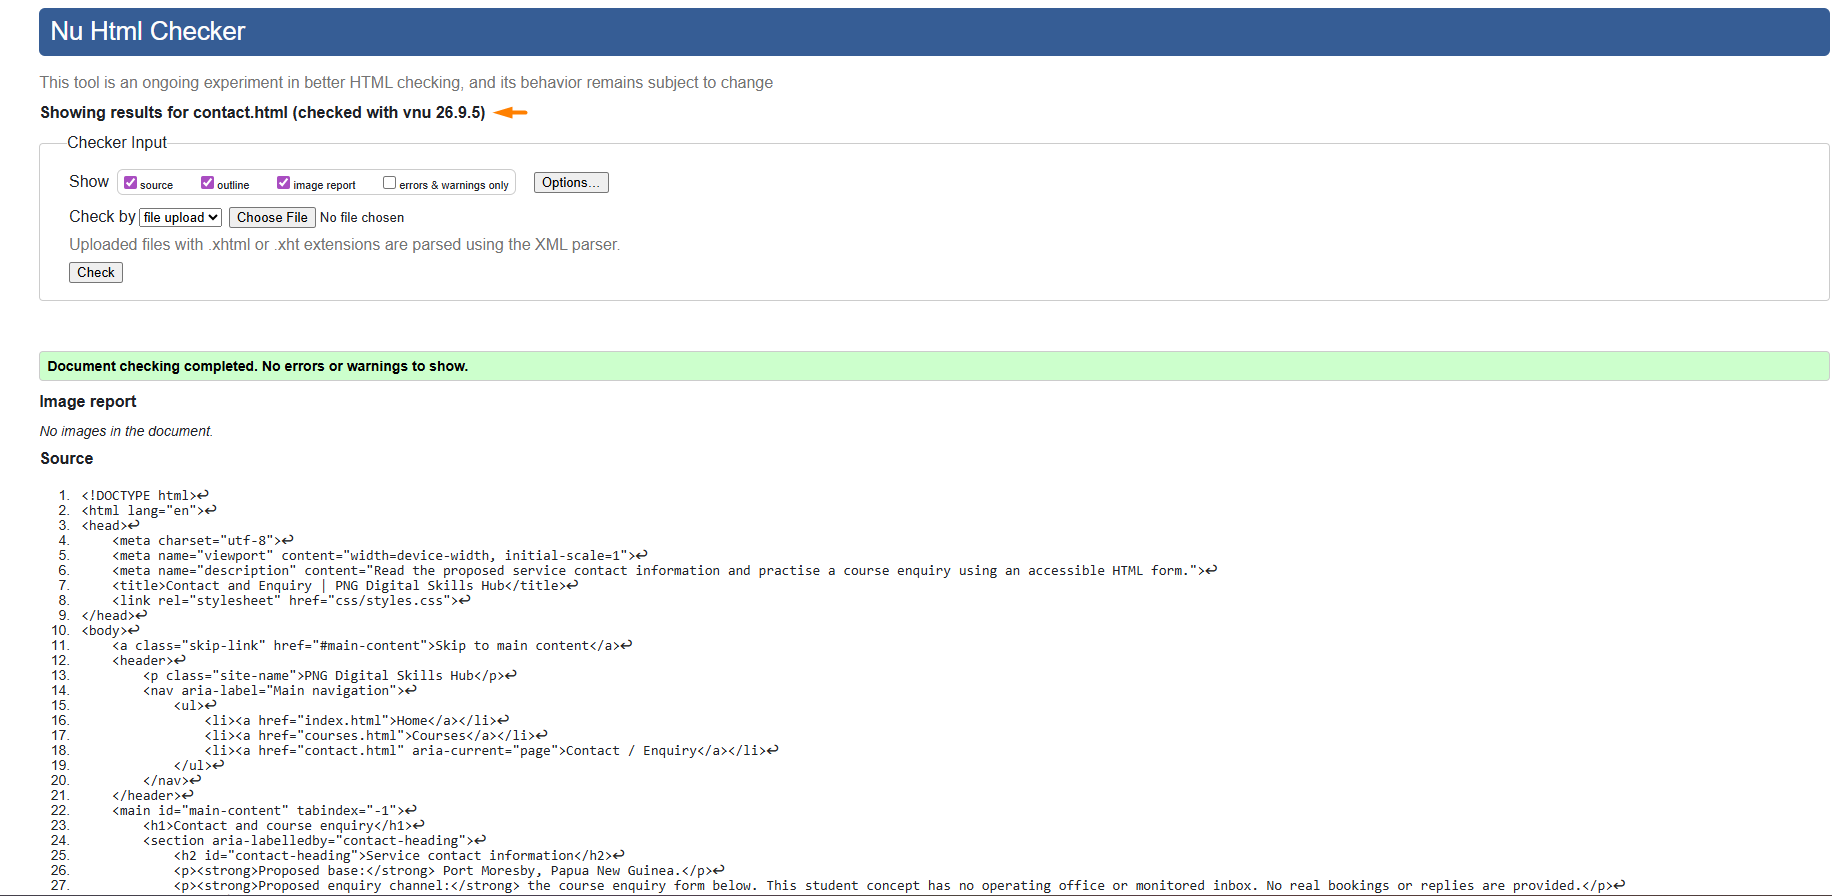
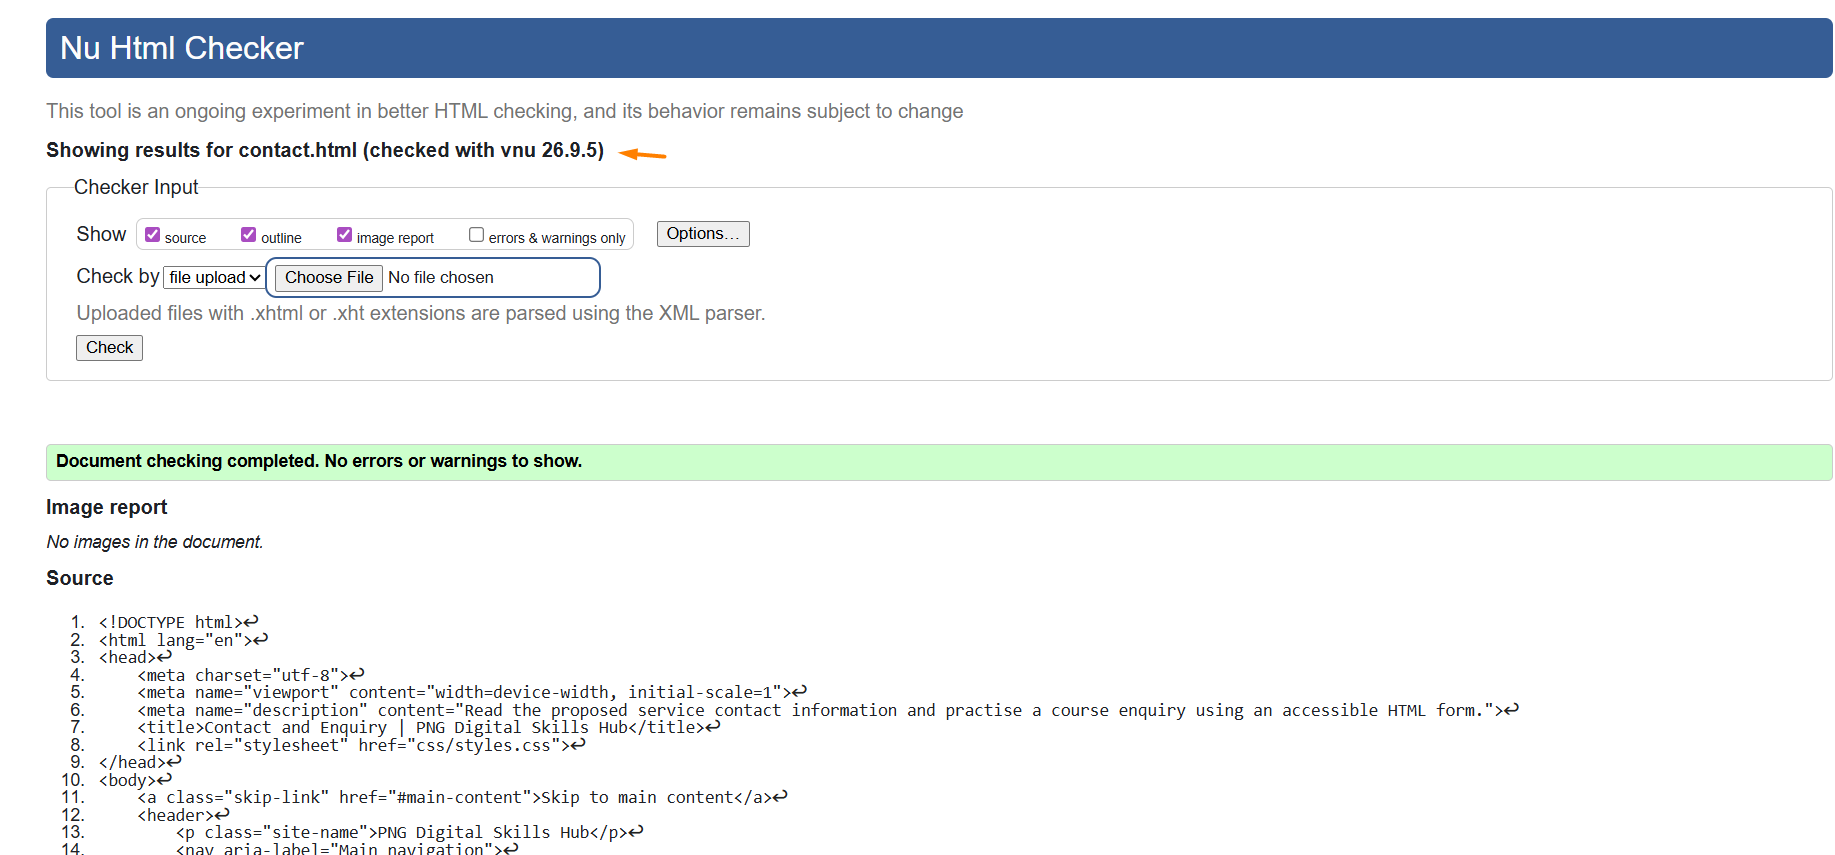
Validate contact form and confirm final website checks

diff --git a/contact.html b/contact.html
@@ -22,13 +22,29 @@
     <main id="main-content" tabindex="-1">
         <h1>Contact and course enquiry</h1>
         <section aria-labelledby="contact-heading">
-            <h2 id="contact-heading">Service contact information</h2>
-            <p><strong>Proposed base:</strong> Port Moresby, Papua New Guinea.</p>
-            <p><strong>Proposed enquiry channel:</strong> the course enquiry form below. This student concept has no operating office or monitored inbox. No real bookings or replies are provided.</p>
-        </section>
+    <h2 id="contact-heading">Contact and learning enquiries</h2>
+
+    <p>
+        PNG Digital Skills Hub is a proposed learning service based in
+        Port Moresby, Papua New Guinea. The website is designed to help
+        students, office workers and small-business users explore practical
+        introductory digital-skills training.
+    </p>
+
+    <p>
+        <strong>Practice enquiry:</strong> Use the form below to demonstrate
+        how a learner could select a course, preferred learning mode and
+        provide basic contact information.
+    </p>
+
+    <p class="notice">
+        This is an ISO229 student website demonstration. The form does not
+        create a real booking, send an email or enrol a learner.
+    </p>
+</section>
 
         <section aria-labelledby="form-heading">
-            <h2 id="form-heading">Practise a course enquiry</h2>
+            <h2 id="form-heading">Practice course enquiry form</h2>
             <p id="form-help" class="notice">Use fictional details only. This practice form sends test values in the page URL and reloads this page. Values may appear in browser history and hosting logs. It does not send an email or create an enrolment.</p>
             <p>Fields labelled "required" must be completed. Other fields are optional.</p>
             <!-- GET demonstrates form encoding. A real service needs a secure backend. -->
@@ -92,7 +108,7 @@
                     <legend>Practice acknowledgement</legend>
                     <p class="choice"><input id="practice-only" name="practice_only" type="checkbox" value="yes" required> <label for="practice-only">I am using fictional details and understand that this is a practice enquiry (required).</label></p>
                 </fieldset>
-                <button type="submit">Test enquiry form</button>
+                <button type="submit">Submit practice enquiry</button>
             </form>
         </section>
 

diff --git a/evidence/MANUAL-TESTS.md b/evidence/MANUAL-TESTS.md
@@ -41,3 +41,10 @@ Test: Open final GitHub repository in incognito
 Result: PENDING
 Observation: Lecturer can access required files and history
 Issue/Fix: None
+
+Date: 06 September 2026
+Browser: Google Chrome
+Test: Final contact-page changes
+Result: PASS
+Observation: Revised contact content displayed correctly and form validation continued to work.
+Issue/Fix: None
